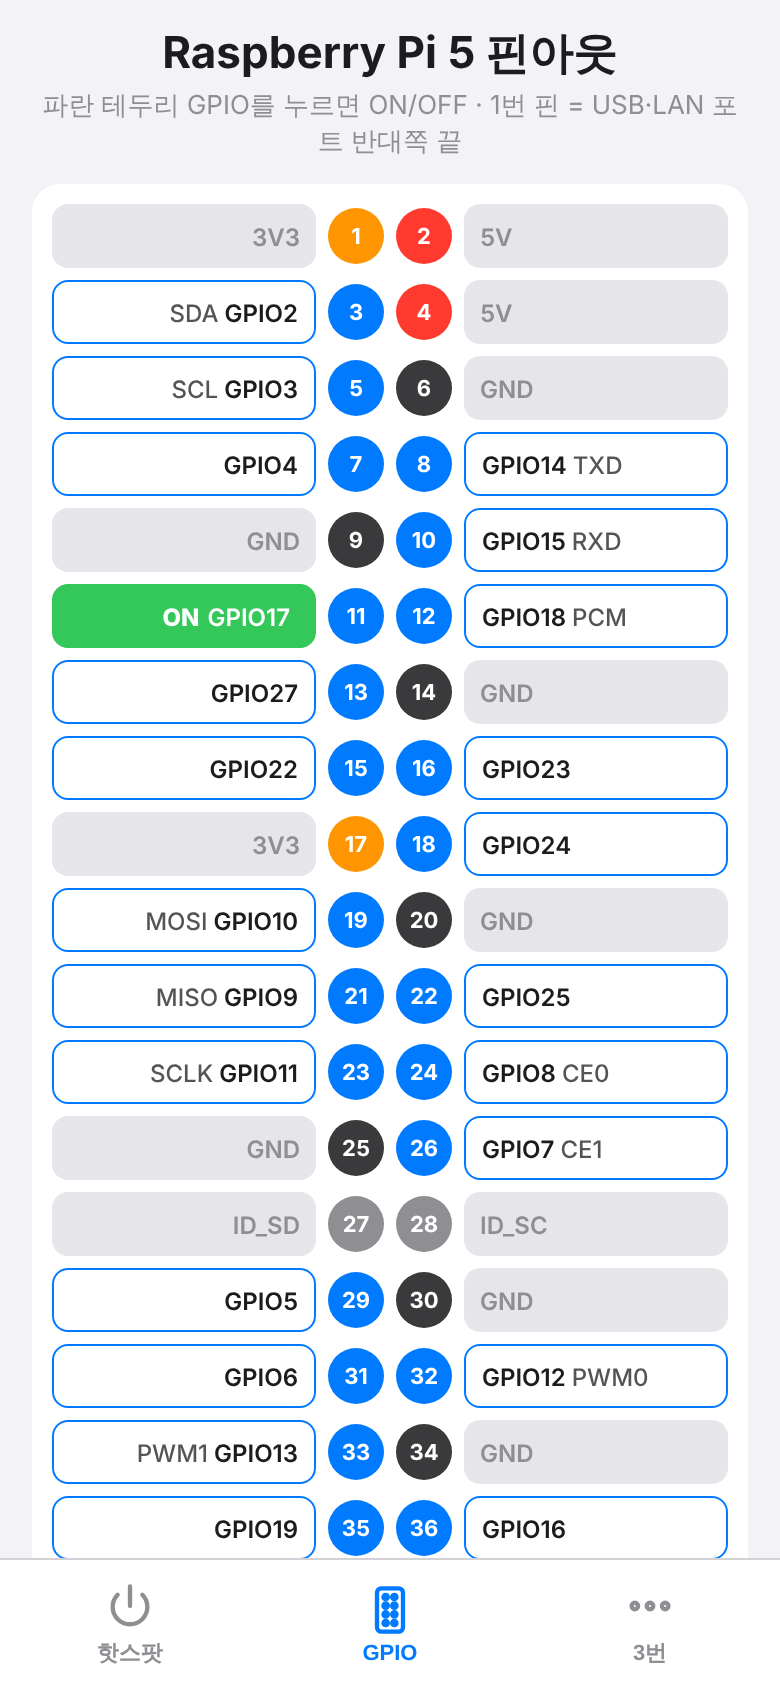
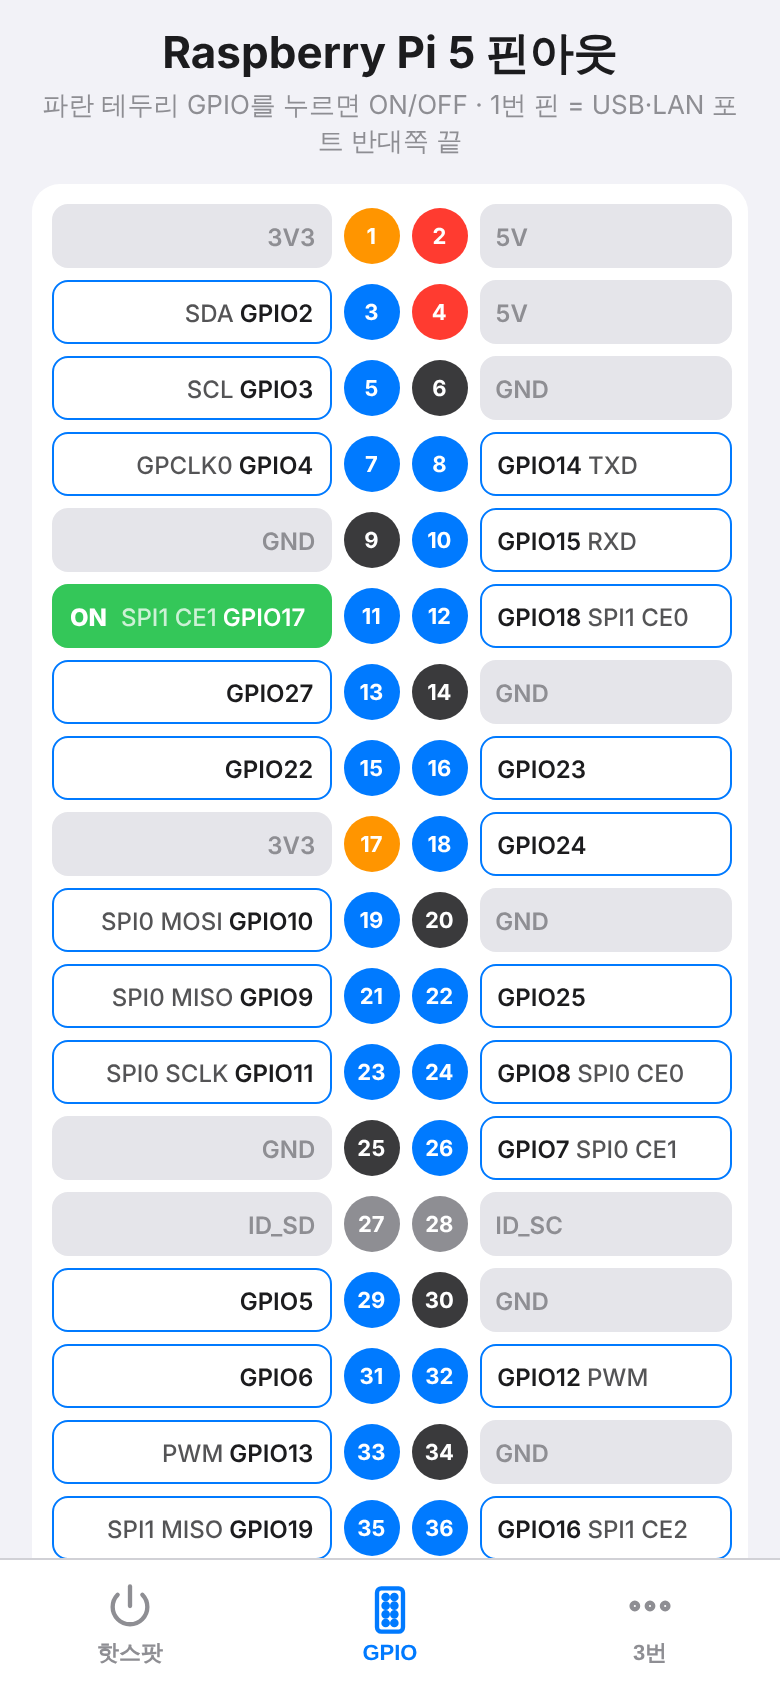
GPIO 탭 핀 보조 기능 표기 정리 (SPI0/SPI1 기준, GPIO18 = SPI1 CE0)
Claude-Session: https://claude.ai/code/session_019ABEp24B3Se2KfcknBZMmt

diff --git a/iphone-app/index.html b/iphone-app/index.html
@@ -60,7 +60,7 @@
   .lab.gpio.on::after { content:' ON'; font-weight:800; margin-left:4px; }
   .lab.left.gpio.on::after { content:''; }
   .lab.left.gpio.on::before { content:'ON '; font-weight:800; margin-right:4px; }
-  .lab .sub { font-weight:500; opacity:.75; margin:0 3px; }
+  .lab .sub { font-weight:500; opacity:.75; margin:0 3px; white-space:nowrap; }
   .num { width:28px; height:32px; display:flex; align-items:center; justify-content:center; font-size:11px;
          font-weight:700; border-radius:50%; color:#fff; align-self:center; height:28px; }
   .num.v3 { background:var(--v3); } .num.v5 { background:var(--v5); } .num.gnd { background:var(--gnd); }
@@ -167,27 +167,27 @@ btn.addEventListener('click', () => {
 // ───────── 2번 탭: GPIO ─────────
 // 라즈베리 파이 5의 40핀 헤더. [핀 번호, 종류, 이름, GPIO 번호]
 // 종류: v3 = 3.3V 전원, v5 = 5V 전원, gnd = 접지, gpio = 제어 가능한 핀, id = HAT 정보용(제어 안 함)
-const PINS = [
-  [1,'v3','3V3'],            [2,'v5','5V'],
-  [3,'gpio','GPIO2','SDA',2],   [4,'v5','5V'],
-  [5,'gpio','GPIO3','SCL',3],   [6,'gnd','GND'],
-  [7,'gpio','GPIO4','',4],      [8,'gpio','GPIO14','TXD',14],
-  [9,'gnd','GND'],           [10,'gpio','GPIO15','RXD',15],
-  [11,'gpio','GPIO17','',17],   [12,'gpio','GPIO18','PCM',18],
-  [13,'gpio','GPIO27','',27],   [14,'gnd','GND'],
-  [15,'gpio','GPIO22','',22],   [16,'gpio','GPIO23','',23],
-  [17,'v3','3V3'],           [18,'gpio','GPIO24','',24],
-  [19,'gpio','GPIO10','MOSI',10],[20,'gnd','GND'],
-  [21,'gpio','GPIO9','MISO',9], [22,'gpio','GPIO25','',25],
-  [23,'gpio','GPIO11','SCLK',11],[24,'gpio','GPIO8','CE0',8],
-  [25,'gnd','GND'],          [26,'gpio','GPIO7','CE1',7],
-  [27,'id','ID_SD'],         [28,'id','ID_SC'],
-  [29,'gpio','GPIO5','',5],     [30,'gnd','GND'],
-  [31,'gpio','GPIO6','',6],     [32,'gpio','GPIO12','PWM0',12],
-  [33,'gpio','GPIO13','PWM1',13],[34,'gnd','GND'],
-  [35,'gpio','GPIO19','',19],   [36,'gpio','GPIO16','',16],
-  [37,'gpio','GPIO26','',26],   [38,'gpio','GPIO20','',20],
-  [39,'gnd','GND'],          [40,'gpio','GPIO21','',21],
+const PINS = [   // 보조 기능은 대표 1개만 표시 (핀 하나에 기능이 여러 개라 문서마다 다르게 적기도 함. 예: GPIO18 = SPI1 CE0 / PCM CLK / PWM)
+  [1,'v3','3V3'],                  [2,'v5','5V'],
+  [3,'gpio','GPIO2','SDA',2],         [4,'v5','5V'],
+  [5,'gpio','GPIO3','SCL',3],         [6,'gnd','GND'],
+  [7,'gpio','GPIO4','GPCLK0',4],      [8,'gpio','GPIO14','TXD',14],
+  [9,'gnd','GND'],                 [10,'gpio','GPIO15','RXD',15],
+  [11,'gpio','GPIO17','SPI1 CE1',17], [12,'gpio','GPIO18','SPI1 CE0',18],
+  [13,'gpio','GPIO27','',27],         [14,'gnd','GND'],
+  [15,'gpio','GPIO22','',22],         [16,'gpio','GPIO23','',23],
+  [17,'v3','3V3'],                 [18,'gpio','GPIO24','',24],
+  [19,'gpio','GPIO10','SPI0 MOSI',10],[20,'gnd','GND'],
+  [21,'gpio','GPIO9','SPI0 MISO',9],  [22,'gpio','GPIO25','',25],
+  [23,'gpio','GPIO11','SPI0 SCLK',11],[24,'gpio','GPIO8','SPI0 CE0',8],
+  [25,'gnd','GND'],                [26,'gpio','GPIO7','SPI0 CE1',7],
+  [27,'id','ID_SD'],               [28,'id','ID_SC'],
+  [29,'gpio','GPIO5','',5],           [30,'gnd','GND'],
+  [31,'gpio','GPIO6','',6],           [32,'gpio','GPIO12','PWM',12],
+  [33,'gpio','GPIO13','PWM',13],      [34,'gnd','GND'],
+  [35,'gpio','GPIO19','SPI1 MISO',19],[36,'gpio','GPIO16','SPI1 CE2',16],
+  [37,'gpio','GPIO26','',26],         [38,'gpio','GPIO20','SPI1 MOSI',20],
+  [39,'gnd','GND'],                [40,'gpio','GPIO21','SPI1 SCLK',21],
 ];
 
 const hostInput = document.getElementById('hostInput');

diff --git a/iphone-app/README.md b/iphone-app/README.md
@@ -158,6 +158,9 @@ journalctl -u hotspot-priority -n 20
 - 색: 주황 = 3.3V, 빨강 = 5V, 검정 = GND(접지), 파랑 = **누를 수 있는 GPIO**, 회색 = ID 핀(HAT 정보용, 사용 안 함)
 - 파란 테두리 GPIO를 누르면 초록색 **ON** + 파이의 그 핀에 3.3V 출력, 다시 누르면 **OFF**
 - 1번 핀 위치: 핀 헤더에서 **USB·LAN 포트 반대쪽 끝**
+- GPIO 옆 작은 글씨 = 그 핀의 **대표 보조 기능** 1개 (그냥 켜고 끌 때는 무시해도 됨)
+  - 핀 하나에 기능이 여러 개라 문서마다 다르게 적혀 있을 수 있음. 예: GPIO18 = `SPI1 CE0` / `PCM CLK`(파이 5에서는 I2S) / `PWM` 모두 맞음. 웹앱은 SPI 기준으로 통일
+  - `SDA`·`SCL` = I2C, `TXD`·`RXD` = 시리얼(UART), `SPI0`·`SPI1` = SPI 장치 연결, `PWM` = 밝기·속도 조절용 신호, `GPCLK0` = 클럭 출력
 - "켜진 GPIO 모두 끄기": 한 번이라도 켠 핀을 전부 OFF
 
 ### 구조
